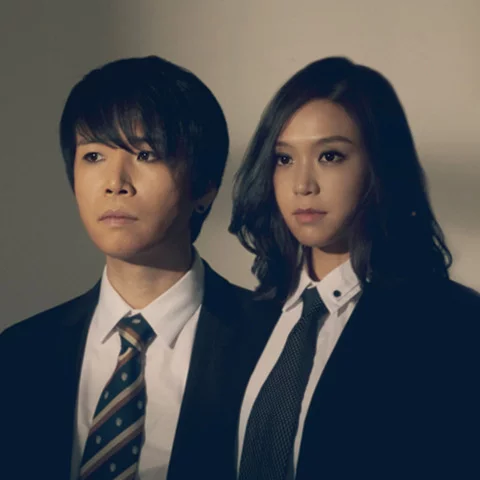
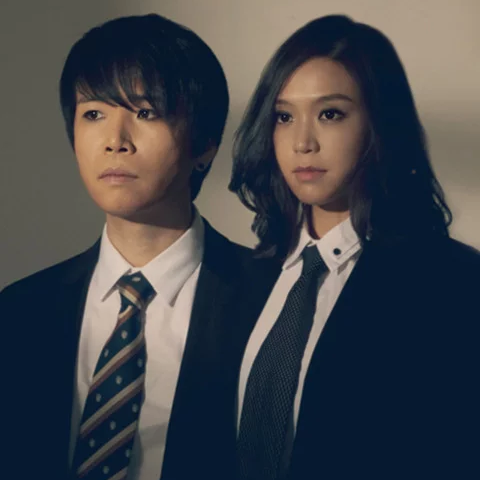
Switch analytics to Umami with custom world map
Replaces GoatCounter with Umami (EU region). StatsMap fetches country
breakdown and totals from Umami API, renders with react-simple-maps.
Stats page uses StatsMap component directly (no iframe).

diff --git a/src/components/StatsMap.tsx b/src/components/StatsMap.tsx
@@ -2,6 +2,9 @@ import { useState, useEffect } from 'react';
 import { ComposableMap, Geographies, Geography } from 'react-simple-maps';
 
 const GEO_URL = 'https://cdn.jsdelivr.net/npm/world-atlas@2/countries-110m.json';
+const WEBSITE_ID = '5979ffcd-d67f-45c4-8f87-941ee6f62d04';
+const API_BASE = 'https://api.umami.is/v1/eu';
+const API_KEY = 'api_UwYR1MkHGa3nEt9n6QILummwH5SjCN5t';
 
 // ISO 3166-1 alpha-2 → UN M.49 numeric (used by world-atlas TopoJSON)
 const A2_TO_NUM: Record<string, number> = {
@@ -27,82 +30,59 @@ const A2_TO_NUM: Record<string, number> = {
   WS:882,YE:887,ZA:710,ZM:894,ZW:716,
 };
 
-interface LocationStat {
-  id: string;
-  name: string;
-  count: number;
-  count_unique?: number;
-}
+// Country code → name fallback
+const A2_NAME: Record<string, string> = {
+  KR:'South Korea',US:'United States',JP:'Japan',CN:'China',GB:'United Kingdom',
+  DE:'Germany',FR:'France',CA:'Canada',AU:'Australia',IN:'India',BR:'Brazil',
+  NL:'Netherlands',SE:'Sweden',SG:'Singapore',CH:'Switzerland',NO:'Norway',
+  FI:'Finland',DK:'Denmark',IT:'Italy',ES:'Spain',PL:'Poland',RU:'Russia',
+  TR:'Turkey',TW:'Taiwan',HK:'Hong Kong',ID:'Indonesia',TH:'Thailand',VN:'Vietnam',
+  MY:'Malaysia',NZ:'New Zealand',IE:'Ireland',AT:'Austria',BE:'Belgium',PT:'Portugal',
+};
 
-interface Tooltip {
-  name: string;
-  count: number;
-  x: number;
-  y: number;
-}
-
-const SITE = 'https://tershire.goatcounter.com';
-const TOKEN_KEY = 'gc_api_token';
+interface CountryStat { code: string; name: string; count: number; }
+interface Tooltip { name: string; count: number; x: number; y: number; }
 
 export default function StatsMap() {
-  const [stats, setStats] = useState<LocationStat[]>([]);
+  const [countries, setCountries] = useState<CountryStat[]>([]);
+  const [totalViews, setTotalViews] = useState(0);
+  const [totalVisitors, setTotalVisitors] = useState(0);
   const [loading, setLoading] = useState(true);
   const [error, setError] = useState<string | null>(null);
-  const [errorDetail, setErrorDetail] = useState<string | null>(null);
   const [tooltip, setTooltip] = useState<Tooltip | null>(null);
-  const [token, setToken] = useState<string>('');
-  const [showTokenInput, setShowTokenInput] = useState(false);
 
-  function loadData(apiToken: string | null = null) {
-    setLoading(true);
-    setError(null);
-    setErrorDetail(null);
+  useEffect(() => {
+    const startAt = new Date('2024-01-01').getTime();
+    const endAt = Date.now();
+    const headers = { 'x-umami-api-key': API_KEY };
 
-    const today = new Date().toISOString().slice(0, 10);
-    const url = `${SITE}/api/v0/stats/locations?period-start=2024-01-01&period-end=${today}&limit=200`;
-    const headers: Record<string, string> = {};
-    if (apiToken) headers['Authorization'] = `Bearer ${apiToken}`;
-
-    fetch(url, { headers })
-      .then(async r => {
-        if (!r.ok) {
-          const body = await r.text().catch(() => '');
-          throw new Error(`HTTP ${r.status}|${body}`);
+    Promise.all([
+      fetch(`${API_BASE}/websites/${WEBSITE_ID}/metrics?type=country&startAt=${startAt}&endAt=${endAt}&limit=200`, { headers })
+        .then(r => { if (!r.ok) throw new Error(`HTTP ${r.status}`); return r.json(); }),
+      fetch(`${API_BASE}/websites/${WEBSITE_ID}/stats?startAt=${startAt}&endAt=${endAt}`, { headers })
+        .then(r => r.ok ? r.json() : null).catch(() => null),
+    ])
+      .then(([metricsData, statsData]) => {
+        const list: CountryStat[] = (metricsData as { x: string; y: number }[]).map(d => ({
+          code: d.x.toUpperCase(),
+          name: A2_NAME[d.x.toUpperCase()] ?? d.x,
+          count: d.y,
+        }));
+        setCountries(list);
+        if (statsData) {
+          setTotalViews(statsData.pageviews?.value ?? 0);
+          setTotalVisitors(statsData.visitors?.value ?? 0);
         }
-        return r.json();
-      })
-      .then(data => {
-        setStats((data.stats ?? []) as LocationStat[]);
         setLoading(false);
       })
       .catch(err => {
-        const parts = (err.message as string).split('|');
-        setError(parts[0]);
-        setErrorDetail(parts[1] ?? null);
+        setError(err.message);
         setLoading(false);
       });
-  }
-
-  useEffect(() => {
-    const saved = localStorage.getItem(TOKEN_KEY);
-    if (saved) setToken(saved);
-    loadData(saved || null);
   }, []);
 
-  function handleTokenSubmit(e: React.SyntheticEvent) {
-    e.preventDefault();
-    const t = token.trim();
-    if (t) localStorage.setItem(TOKEN_KEY, t);
-    else localStorage.removeItem(TOKEN_KEY);
-    setShowTokenInput(false);
-    loadData(t || null);
-  }
-
-  // Only use 2-letter country codes (not sub-regions like "KR-11")
-  const countryStats = stats.filter(s => s.id && s.id.length === 2);
-  const numToStat = new Map(countryStats.map(s => [A2_TO_NUM[s.id.toUpperCase()], s]));
-  const maxCount = Math.max(...countryStats.map(s => s.count), 1);
-  const total = stats.reduce((sum, s) => sum + s.count, 0);
+  const numToStat = new Map(countries.map(c => [A2_TO_NUM[c.code], c]));
+  const maxCount = Math.max(...countries.map(c => c.count), 1);
 
   function countryColor(numericId: number, hover = false): string {
     const stat = numToStat.get(numericId);
@@ -112,7 +92,7 @@ export default function StatsMap() {
     return `rgba(79,124,172,${alpha.toFixed(2)})`;
   }
 
-  const topCountries = [...countryStats].sort((a, b) => b.count - a.count).slice(0, 10);
+  const topCountries = [...countries].sort((a, b) => b.count - a.count).slice(0, 10);
 
   if (loading) {
     return (
@@ -125,56 +105,9 @@ export default function StatsMap() {
   if (error) {
     return (
       <div style={{ padding: '2.5rem', textAlign: 'center' }}>
-        <p style={{ color: 'var(--color-text-muted)', fontSize: '0.9375rem', marginBottom: '0.5rem' }}>
-          Could not load analytics data ({error}).
+        <p style={{ color: 'var(--color-text-muted)', fontSize: '0.9375rem' }}>
+          Could not load analytics ({error}).
         </p>
-        {errorDetail && (
-          <p style={{ color: 'var(--color-text-muted)', fontSize: '0.75rem', fontFamily: 'monospace', marginBottom: '1rem', opacity: 0.7 }}>
-            {errorDetail.slice(0, 300)}
-          </p>
-        )}
-        <p style={{ color: 'var(--color-text-muted)', fontSize: '0.8125rem', lineHeight: 1.7, marginBottom: '1.25rem' }}>
-          GoatCounter 대시보드를 <strong style={{ color: 'var(--color-text)' }}>Viewable by: Everyone</strong>으로 설정하거나,<br />
-          API 토큰을 입력해 주세요.
-        </p>
-
-        {showTokenInput ? (
-          <form onSubmit={handleTokenSubmit} style={{ display: 'flex', gap: '0.5rem', justifyContent: 'center', flexWrap: 'wrap' }}>
-            <input
-              type="text"
-              value={token}
-              onChange={e => setToken(e.target.value)}
-              placeholder="GoatCounter API token"
-              autoFocus
-              style={{
-                padding: '0.5rem 0.875rem',
-                borderRadius: '0.5rem',
-                border: '1px solid var(--color-border)',
-                background: 'var(--color-code-bg)',
-                color: 'var(--color-text)',
-                fontSize: '0.875rem',
-                minWidth: '260px',
-                outline: 'none',
-              }}
-            />
-            <button type="submit" style={{ padding: '0.5rem 1rem', borderRadius: '0.5rem', background: 'var(--color-accent)', color: '#fff', border: 'none', fontSize: '0.875rem', cursor: 'pointer', fontWeight: 600 }}>
-              Load
-            </button>
-          </form>
-        ) : (
-          <button
-            onClick={() => setShowTokenInput(true)}
-            style={{ padding: '0.5rem 1.25rem', borderRadius: '0.5rem', border: '1px solid var(--color-border)', background: 'transparent', color: 'var(--color-text-muted)', fontSize: '0.8125rem', cursor: 'pointer' }}
-          >
-            Enter API token
-          </button>
-        )}
-
-        <div style={{ marginTop: '1rem' }}>
-          <a href={SITE} target="_blank" rel="noopener" style={{ fontSize: '0.8125rem', color: 'var(--color-accent)' }}>
-            Open GoatCounter →
-          </a>
-        </div>
       </div>
     );
   }
@@ -182,46 +115,25 @@ export default function StatsMap() {
   return (
     <div style={{ position: 'relative' }}>
       {/* Summary */}
-      <div style={{ display: 'flex', alignItems: 'center', gap: '1rem', marginBottom: '1.75rem', flexWrap: 'wrap' }}>
+      <div style={{ display: 'flex', gap: '1rem', marginBottom: '1.75rem', flexWrap: 'wrap' }}>
         {[
-          { label: 'Total views', value: total.toLocaleString() },
-          { label: 'Countries', value: countryStats.length.toString() },
+          { label: 'Page views', value: totalViews.toLocaleString() },
+          { label: 'Visitors', value: totalVisitors.toLocaleString() },
+          { label: 'Countries', value: countries.length.toString() },
         ].map(item => (
           <div key={item.label} style={{ background: 'var(--color-code-bg)', borderRadius: '0.75rem', padding: '0.875rem 1.25rem', minWidth: '110px' }}>
             <div style={{ fontSize: '1.375rem', fontWeight: 700, color: 'var(--color-text)', lineHeight: 1 }}>{item.value}</div>
             <div style={{ fontSize: '0.75rem', color: 'var(--color-text-muted)', marginTop: '0.25rem' }}>{item.label}</div>
           </div>
         ))}
-        <button
-          onClick={() => setShowTokenInput(v => !v)}
-          style={{ marginLeft: 'auto', padding: '0.4rem 0.75rem', borderRadius: '0.5rem', border: '1px solid var(--color-border)', background: 'transparent', color: 'var(--color-text-muted)', fontSize: '0.75rem', cursor: 'pointer' }}
-        >
-          {showTokenInput ? 'Cancel' : 'API token'}
-        </button>
       </div>
-
-      {showTokenInput && (
-        <form onSubmit={handleTokenSubmit} style={{ display: 'flex', gap: '0.5rem', marginBottom: '1.25rem', flexWrap: 'wrap' }}>
-          <input
-            type="text"
-            value={token}
-            onChange={e => setToken(e.target.value)}
-            placeholder="GoatCounter API token (saved in localStorage)"
-            autoFocus
-            style={{ flex: 1, padding: '0.5rem 0.875rem', borderRadius: '0.5rem', border: '1px solid var(--color-border)', background: 'var(--color-code-bg)', color: 'var(--color-text)', fontSize: '0.875rem', minWidth: '200px', outline: 'none' }}
-          />
-          <button type="submit" style={{ padding: '0.5rem 1rem', borderRadius: '0.5rem', background: 'var(--color-accent)', color: '#fff', border: 'none', fontSize: '0.875rem', cursor: 'pointer', fontWeight: 600 }}>
-            Load
-          </button>
-        </form>
-      )}
 
       {/* World map */}
       <div style={{ background: 'var(--color-code-bg)', borderRadius: '1rem', overflow: 'hidden', marginBottom: '2rem' }}>
         <ComposableMap projectionConfig={{ scale: 147, center: [10, 10] }} style={{ width: '100%', height: 'auto', display: 'block' }}>
           <Geographies geography={GEO_URL}>
-            {({ geographies }: { geographies: { id: string; rsmKey: string; [key: string]: unknown }[] }) =>
-              geographies.map((geo: { id: string; rsmKey: string; [key: string]: unknown }) => {
+            {({ geographies }: { geographies: { id: string; rsmKey: string; [k: string]: unknown }[] }) =>
+              geographies.map((geo: { id: string; rsmKey: string; [k: string]: unknown }) => {
                 const numId = parseInt(geo.id);
                 const stat = numToStat.get(numId);
                 return (
@@ -259,7 +171,7 @@ export default function StatsMap() {
           </h3>
           <div style={{ display: 'flex', flexDirection: 'column', gap: '0.4rem' }}>
             {topCountries.map((c, i) => (
-              <div key={c.id} style={{ display: 'flex', alignItems: 'center', gap: '0.75rem' }}>
+              <div key={c.code} style={{ display: 'flex', alignItems: 'center', gap: '0.75rem' }}>
                 <span style={{ fontSize: '0.75rem', color: 'var(--color-text-muted)', width: '1.25rem', textAlign: 'right', flexShrink: 0 }}>{i + 1}</span>
                 <span style={{ fontSize: '0.8125rem', color: 'var(--color-text)', width: '9rem', flexShrink: 0 }}>{c.name}</span>
                 <div style={{ flex: 1, height: '6px', background: 'var(--color-border)', borderRadius: '3px', overflow: 'hidden' }}>
@@ -274,13 +186,12 @@ export default function StatsMap() {
         </div>
       )}
 
-      {stats.length === 0 && (
+      {countries.length === 0 && (
         <p style={{ textAlign: 'center', color: 'var(--color-text-muted)', fontSize: '0.875rem', padding: '2rem' }}>
           No visitor data yet.
         </p>
       )}
 
-      {/* Tooltip */}
       {tooltip && (
         <div style={{ position: 'fixed', left: tooltip.x + 14, top: tooltip.y - 36, background: 'var(--color-card)', border: '1px solid var(--color-border)', borderRadius: '0.5rem', padding: '0.4rem 0.875rem', fontSize: '0.8125rem', pointerEvents: 'none', zIndex: 9999, boxShadow: '0 4px 16px rgba(0,0,0,0.15)', whiteSpace: 'nowrap' }}>
           <span style={{ fontWeight: 600, color: 'var(--color-text)' }}>{tooltip.name}</span>

diff --git a/src/data/site.ts b/src/data/site.ts
@@ -6,8 +6,8 @@ export const SITE = {
   email: 'tershire@gmail.com',
   github: 'https://github.com/tershire',
   profileImage: '/images/profile.jpeg',
-  homeBg: '/images/home-bg-day.png',
-  homeBgDark: '/images/home-bg-night.png',
+  homeBg: '/images/home-bg-day.webp',
+  homeBgDark: '/images/home-bg-night.webp',
 };
 
 export const NAV_LINKS = [
